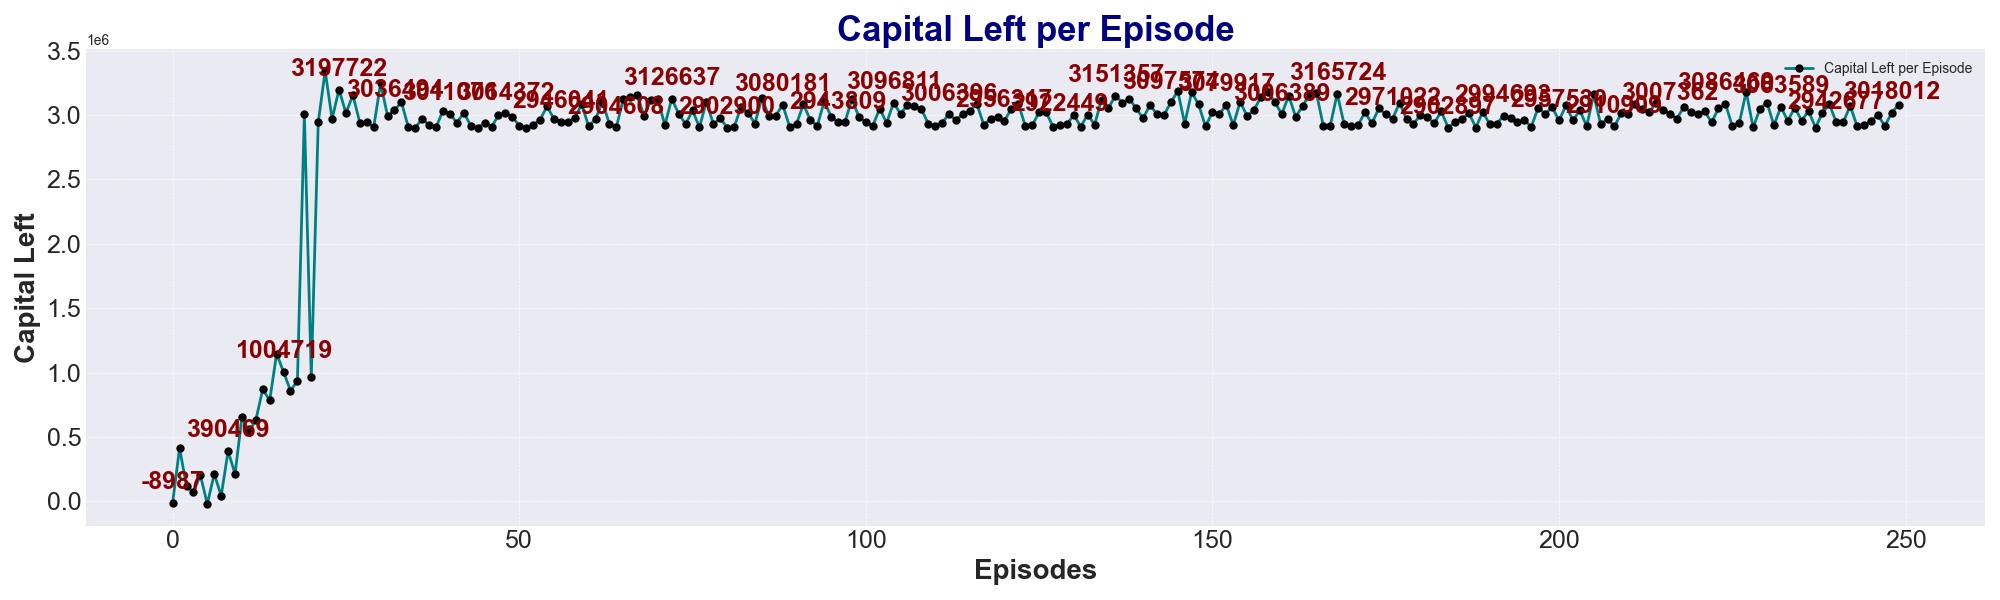
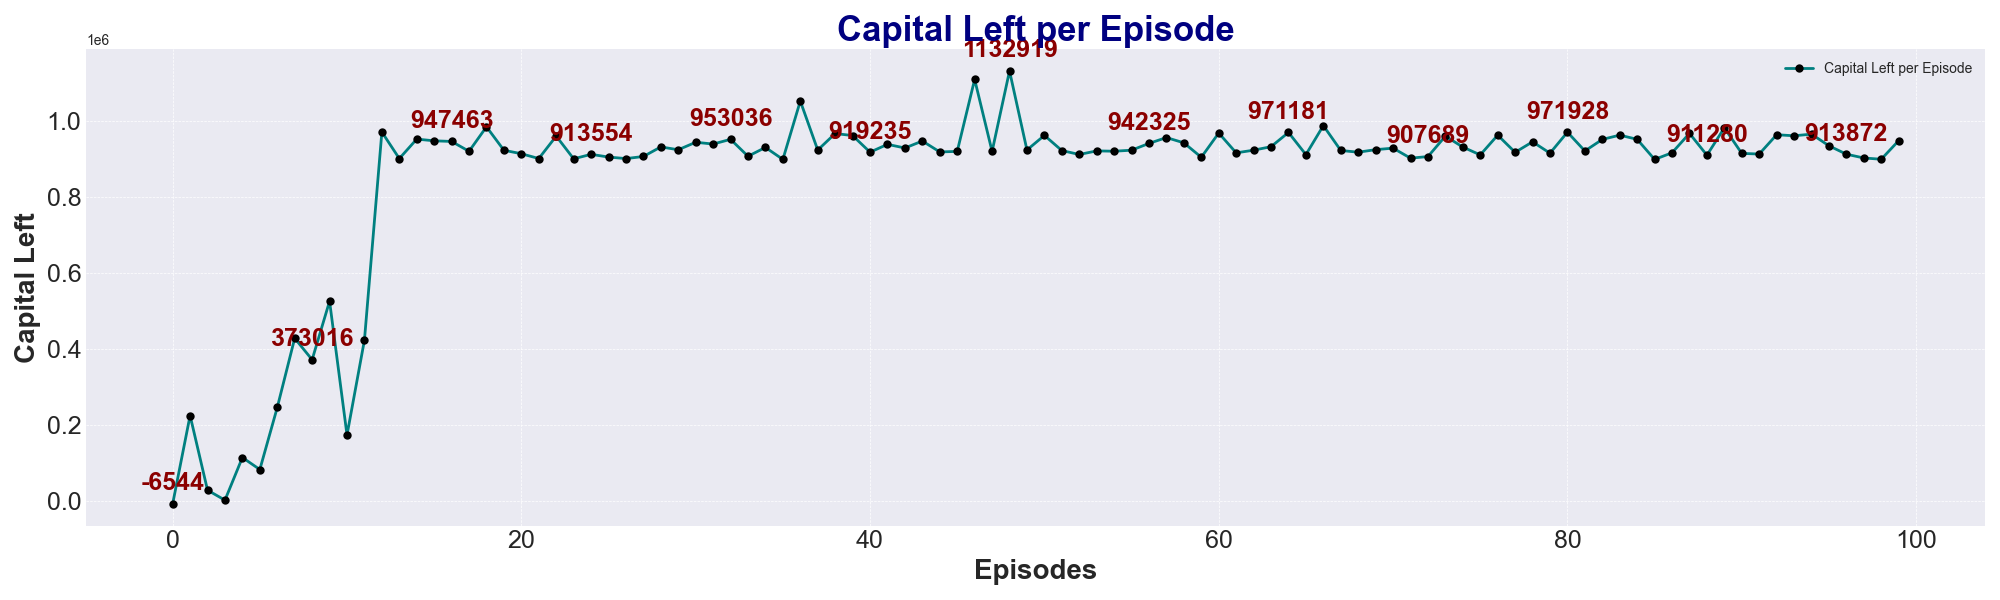
Final results graphs

diff --git a/main.py b/main.py
@@ -6,7 +6,7 @@ from DQN import DQNAgent, DuellingDQN
 from lineGraph import draw_action_graph, plot_episode_values
 import numpy as np
 
-def train(asset_name, cap_high, start_date):
+def train(asset_name, cap_high, start_date, i):
     # Setting up environment and dataset
     asset = DataGetter(asset=asset_name, start_date=start_date, end_date="2023-03-14")
     test_asset = DataGetter(asset=asset_name, start_date="2023-03-14", end_date="2024-03-14")
@@ -18,7 +18,7 @@ def train(asset_name, cap_high, start_date):
     agent = DQNAgent(actor_net=DuellingDQN, memory=memory)
 
     # Main training loop
-    N_EPISODES = 250
+    N_EPISODES = 100
     all_scores = []
     all_capitals = []
     all_test_scores = []
@@ -120,13 +120,13 @@ def train(asset_name, cap_high, start_date):
     plot_episode_values(all_scores, f"{asset_name}/{asset_name}_train_reward.png", "Ave Reward", True)
     plot_episode_values(all_capitals, f"{asset_name}/{asset_name}_train_capital.png", "Capital Left", False)
     plot_episode_values(all_test_scores, f"{asset_name}/{asset_name}_test_reward.png", "Ave Reward", True)
-    plot_episode_values(all_test_capitals, f"{asset_name}/{asset_name}_test_capital.png", "Capital Left", False)
+    plot_episode_values(all_test_capitals, f"{asset_name}/{i}_{asset_name}_test_capital.png", "Capital Left", False)
 
 if __name__ == '__main__':
     # asset_codes = ["ETH-USD", "BNB-USD", "XRP-USD", "SOL-USD", "DOGE-USD",
     #                "ADA-USD", "MATIC-USD", "AVAX-USD", "WAVES-USD"]
     asset_codes = ["ETH-USD"]
-    for asset_code in asset_codes:
-        print(f"---------------------------{asset_code}----------------------------")
-        train(asset_code, 30, "2017-11-09")
+    for i in range(6):
+        print(f"---------------------------{i}----------------------------")
+        train("ETH-USD", 10,  "2017-11-09", i)
         print(f"---------------------------END----------------------------")

diff --git a/parameters.py b/parameters.py
@@ -5,7 +5,7 @@ GAMMA = 0.9995
 TAU = 1e-3
 EPS_START = 1.0
 EPS_END = 0.001
-EPS_DECAY = 0.95
+EPS_DECAY = 0.9
 
 MEMORY_LEN = 10000
 MEMORY_THRESH = 500
